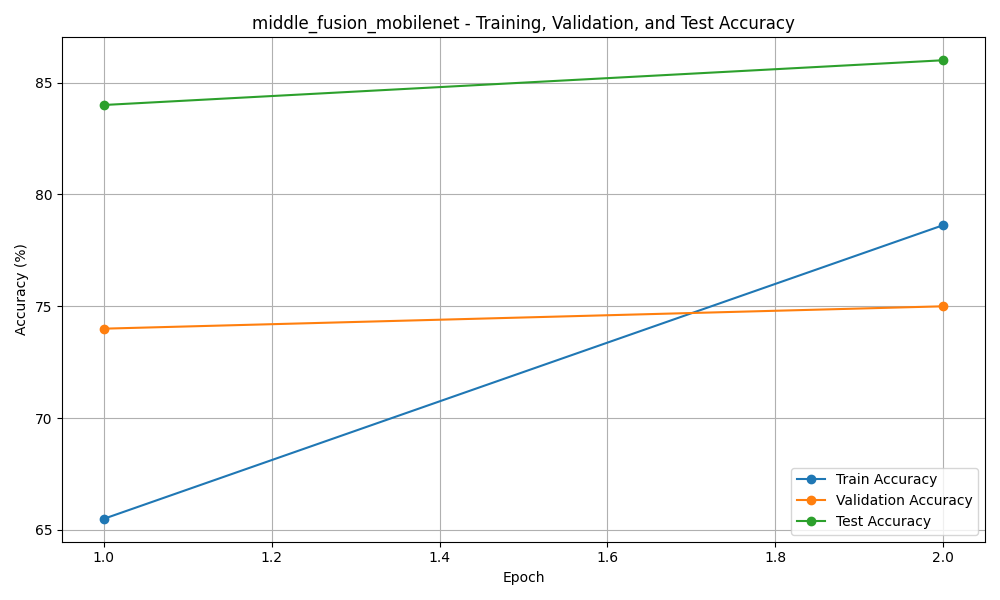
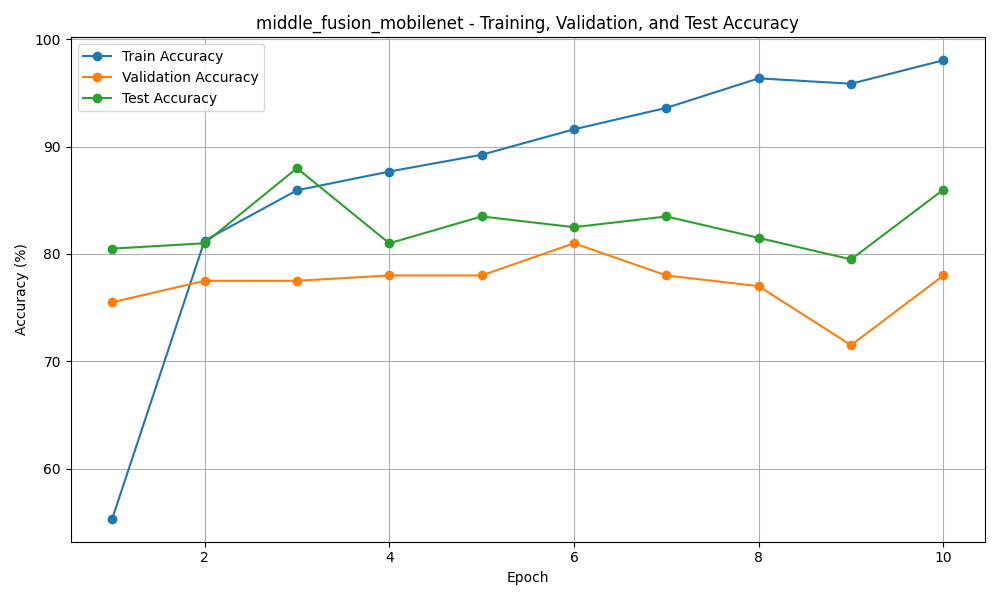
plots

diff --git a/audio_video/visualize_metrics.py b/audio_video/visualize_metrics.py
@@ -61,5 +61,6 @@ def plot_logs(model_name):
 
 if __name__ == "__main__":
     # Example: change to your trained multimodal model
-    model_name = "middle_fusion_mobilenet"
-    plot_logs(model_name)
+    models = ["early_fusion_fast", "early_fusion_mobilenet", "late_fusion_fast", "middle_fusion_fast", "middle_fusion_mobilenet"]
+    for model in models:
+        plot_logs(model)
